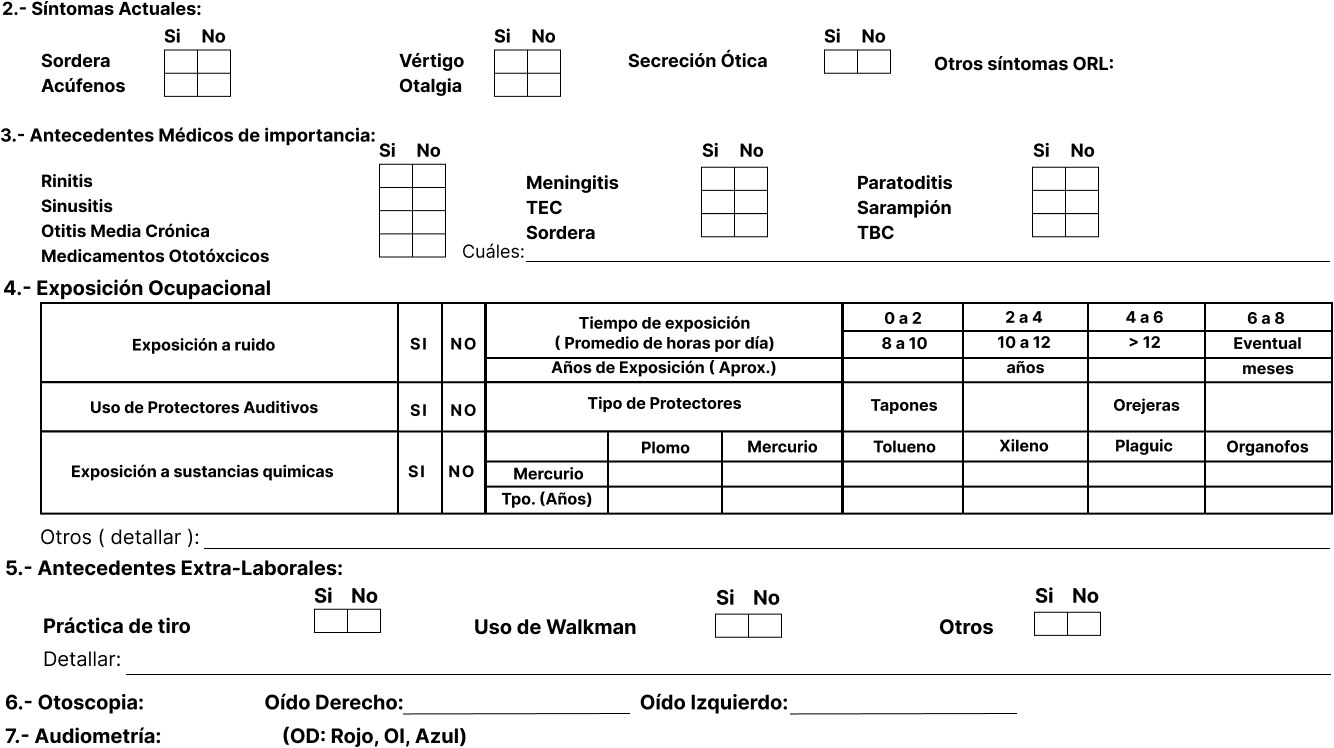
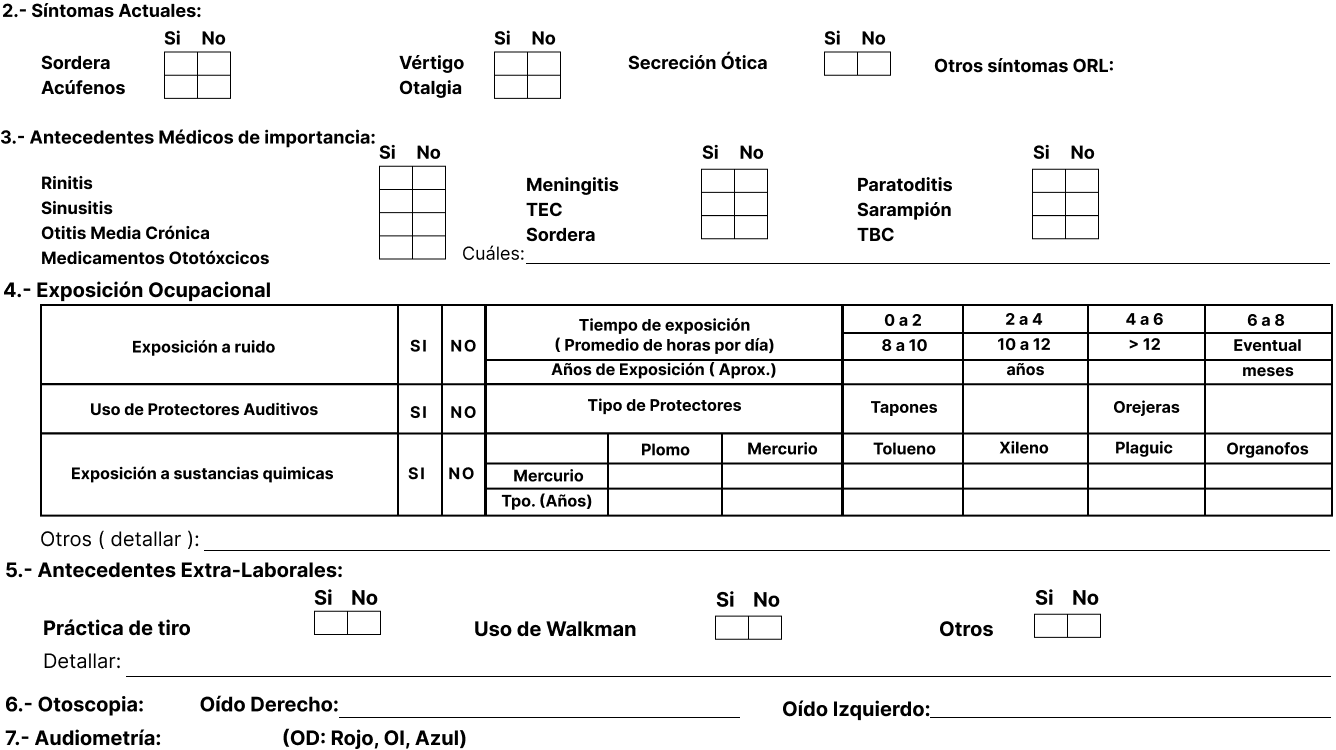
correción de maxwidth y frame para audiometria 2021

diff --git a/src/views/jaspers/Audiometria/Audiometria2021-_Digitalizado_boro.jsx b/src/views/jaspers/Audiometria/Audiometria2021-_Digitalizado_boro.jsx
@@ -328,7 +328,7 @@ const body_Audiometria2021_Digitalizado = (doc, data) => {
   doc.text(`X`, margin + 51.7 + (datos.medicamentosOtotoxicos ? 0 : 4.5), newY);
   doc.setFont("helvetica", "normal").setFontSize(7);
   doc.text(datos.cualesAntecedentes, margin + 75, newY + 0.5, {
-    maxWidth: 50,
+    maxWidth: 120,
   });
 
   // =====================
@@ -387,7 +387,7 @@ const body_Audiometria2021_Digitalizado = (doc, data) => {
 
   newY -= 1;
   doc.setFont("helvetica", "normal").setFontSize(8);
-  doc.text(`${datos.txteootros}`, margin + 35, newY + 43.5, { maxWidth: 50 });
+  doc.text(`${datos.txteootros}`, margin + 35, newY + 43.5, { maxWidth: 120 });
   newY += 9.1;
   // =====================
   // 4.- Exposición Ocupacional
@@ -401,16 +401,16 @@ const body_Audiometria2021_Digitalizado = (doc, data) => {
     margin + 138.7 + (datos.otrosExtraLaborales ? 0 : 4.5),
     newY + 0.6
   );
-  doc.text(`${datos.txtaecuales}`, margin + 41.2, newY + 4.6, {
-    maxWidth: 60,
+  doc.text(`${datos.txtaecuales}`, margin + 30, newY + 4.6, {
+    maxWidth: 120,
   });
 
   // =====================
   // 5.- Exposición Ocupacional
   // =====================
   newY += 10.5;
-  doc.text(`${datos.txtood}`, margin + 55, newY - 0.7, { maxWidth: 20 });
-  doc.text(`${datos.txtooi}`, margin + 107, newY - 0.7, { maxWidth: 30 });
+  doc.text(`${datos.txtood}`, margin + 48, newY - 0.7, { maxWidth: 50 });
+  doc.text(`${datos.txtooi}`, margin + 128, newY - 0.7, { maxWidth: 50 });
   // =====================
   // 7.- Audiometría
   // =====================
@@ -612,7 +612,6 @@ const body_Audiometria2021_Digitalizado = (doc, data) => {
 
   // Texto subrayado para el diagnóstico del oído derecho
   const diagOdText = String(datos.txtdiagOd || "");
-  const diagOdWidth = doc.getTextWidth(diagOdText);
   doc.text(diagOdText, margin + 25, y);
   // doc.line(margin + 25, y + 1, margin + 25 + diagOdWidth, y + 1);
 
@@ -621,7 +620,6 @@ const body_Audiometria2021_Digitalizado = (doc, data) => {
 
   // Texto subrayado para el diagnóstico del oído izquierdo
   const diagOiText = String(datos.txtdiagOi || "");
-  const diagOiWidth = doc.getTextWidth(diagOiText);
   doc.text(diagOiText, margin + 25, y);
   // doc.line(margin + 25, y + 1, margin + 25 + diagOiWidth, y + 1);
 

diff --git a/src/views/jaspers/Audiometria/Audiometria2021-_Digitalizado.jsx b/src/views/jaspers/Audiometria/Audiometria2021-_Digitalizado.jsx
@@ -320,7 +320,7 @@ const body_Audiometria2021_Digitalizado = (doc, data) => {
   doc.text(`X`, margin + 51.7 + (datos.medicamentosOtotoxicos ? 0 : 4.5), newY);
   doc.setFont("helvetica", "normal").setFontSize(7);
   doc.text(datos.cualesAntecedentes, margin + 75, newY + 0.5, {
-    maxWidth: 50,
+    maxWidth: 120,
   });
 
   // =====================
@@ -379,7 +379,7 @@ const body_Audiometria2021_Digitalizado = (doc, data) => {
 
   newY -= 1;
   doc.setFont("helvetica", "normal").setFontSize(8);
-  doc.text(`${datos.txteootros}`, margin + 35, newY + 43.5, { maxWidth: 50 });
+  doc.text(`${datos.txteootros}`, margin + 35, newY + 43.5, { maxWidth: 120 });
   newY += 9.1;
   // =====================
   // 5. antecedentes extra alborales
@@ -393,16 +393,16 @@ const body_Audiometria2021_Digitalizado = (doc, data) => {
     margin + 138.7 + (datos.otrosExtraLaborales ? 0 : 4.5),
     newY + 0.6
   );
-  doc.text(`${datos.txtaecuales}`, margin + 41.2, newY + 4.6, {
-    maxWidth: 60,
+  doc.text(`${datos.txtaecuales}`, margin + 30, newY + 4.6, {
+    maxWidth: 120,
   });
 
   // =====================
   // 5.- Exposición Ocupacional
   // =====================
   newY += 10.5;
-  doc.text(`${datos.txtood}`, margin + 55, newY - 0.7, { maxWidth: 20 });
-  doc.text(`${datos.txtooi}`, margin + 107, newY - 0.7, { maxWidth: 30 });
+  doc.text(`${datos.txtood}`, margin + 48, newY - 0.7, { maxWidth: 50 });
+  doc.text(`${datos.txtooi}`, margin + 128, newY - 0.7, { maxWidth: 50 });
   // =====================
   // 7.- Audiometría
   // =====================
